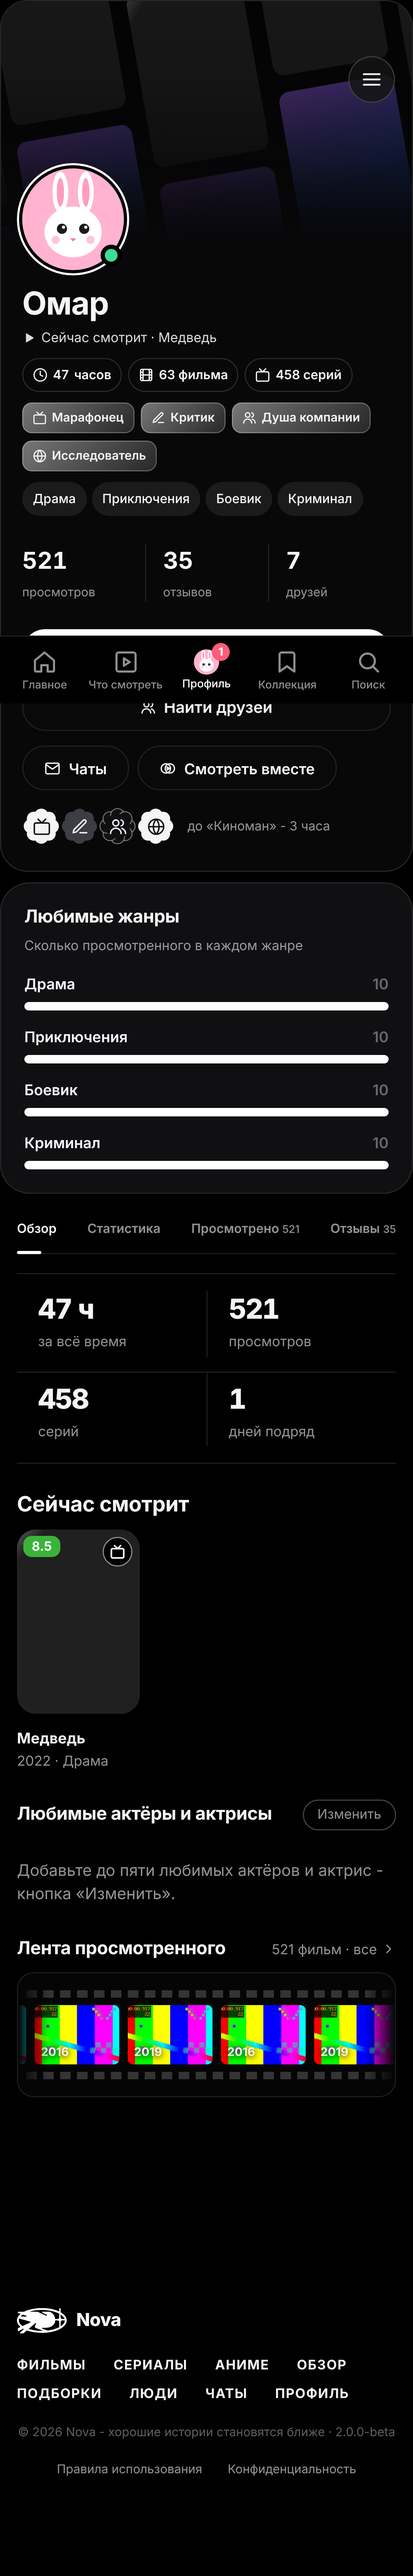
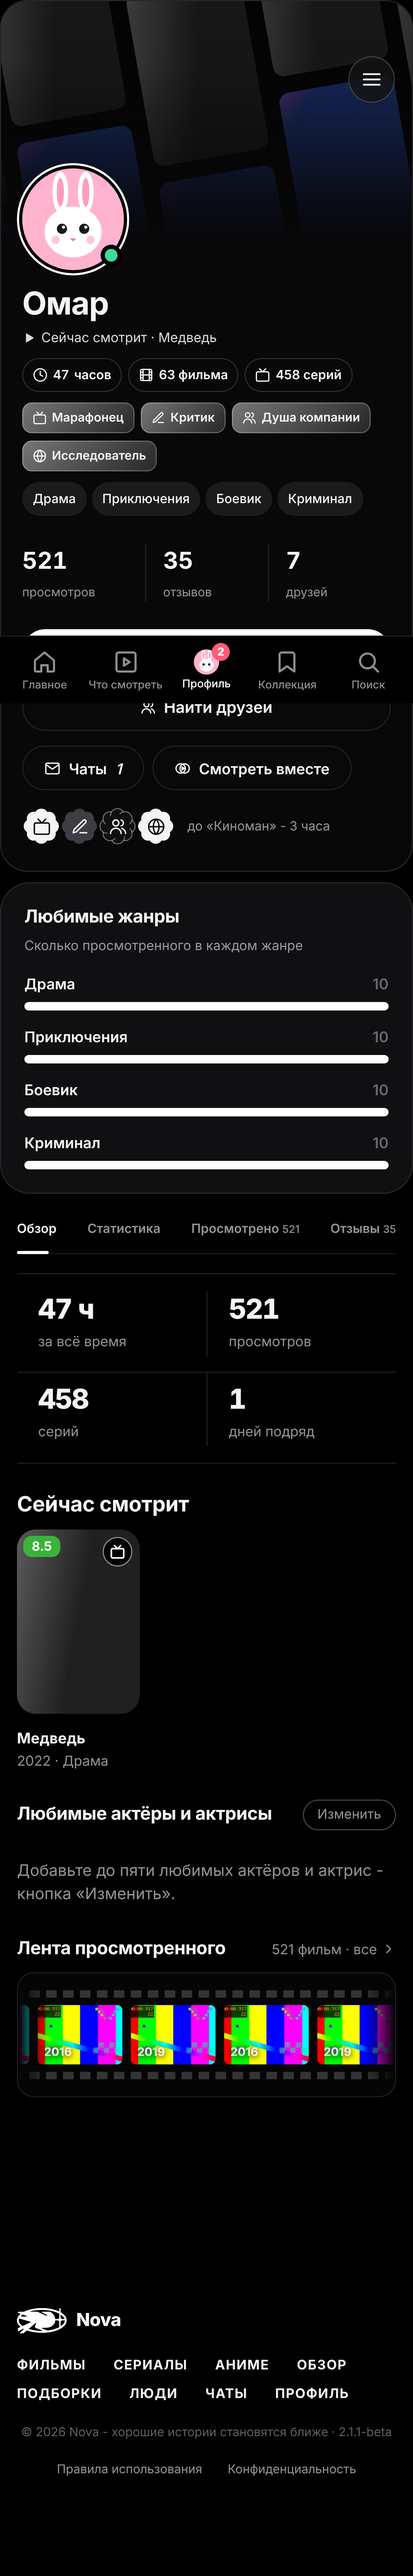
feat(web): профиль «Пульт» - левая колонка с уровнем, медалями, плитками и друзьями
Claude-Session: https://claude.ai/code/session_01PdbNxM7NLLp2d2uKGuEVkW

diff --git a/web/src/lib/profile/ProfileCard.svelte b/web/src/lib/profile/ProfileCard.svelte
@@ -1,6 +1,6 @@
 <script lang="ts">
   import { goto } from '$app/navigation';
-  import { post } from '$lib/api';
+  import { api, post } from '$lib/api';
   import { count, plural } from '$lib/fmt';
   import FriendButton from '$lib/social/FriendButton.svelte';
   import PosterWall from '$lib/social/PosterWall.svelte';
@@ -45,6 +45,38 @@
     return open ? `до «${open.label}» - ${count(Math.ceil(open.need - open.of(s)), ...open.word)}` : null;
   });
   const topTitle = $derived(names[0]?.label ?? '');
+
+  // Уровень зрителя: опыт за часы, фильмы, серии, отзывы и друзей; кольцо вокруг портрета - путь до следующего.
+  const xp = $derived(s ? s.hours * 10 + s.movies * 6 + s.episodes * 2 + s.reviews * 15 + s.friends * 10 + s.outside * 2 : 0);
+  const level = $derived(Math.floor(Math.sqrt(xp / 25)) + 1);
+  const toNext = $derived.by(() => {
+    const from = 25 * (level - 1) ** 2;
+    const to = 25 * level ** 2;
+    return Math.max(0, Math.min(1, (xp - from) / Math.max(1, to - from)));
+  });
+  const RING = 2 * Math.PI * 69;
+
+  // Бегущая строка у владельца: что сейчас делают друзья.
+  let ticker = $state<{ who: string; what: string }[]>([]);
+  $effect(() => {
+    if (!p.me) return;
+    let live = true;
+    api<{ person?: { name: string }; label: string; card?: { title: string }; ext?: { title: string } }[]>('/api/friends/activity').then(
+      (r) => live && (ticker = r.filter((a) => a.person).slice(0, 8).map((a) => ({ who: a.person!.name, what: `${a.label.toLowerCase()} «${a.card?.title ?? a.ext?.title ?? ''}»` }))),
+      () => {},
+    );
+    return () => (live = false);
+  });
+  let shared = $state(false);
+  async function share() {
+    try {
+      await navigator.clipboard.writeText(location.origin + `/people/${p.person.id}`);
+      shared = true;
+      setTimeout(() => (shared = false), 1800);
+    } catch {
+      /* без буфера обмена - ничего */
+    }
+  }
 </script>
 
 <aside class="card" aria-label="Человек">
@@ -58,10 +90,16 @@
 
     <div class="who" style:--acc={p.decor.accent ?? '#4a4a53'}>
     <div class="ring">
+      {#if s}
+        <svg class="lvl" viewBox="0 0 146 146" aria-hidden="true"><circle cx="73" cy="73" r="69" class="track" /><circle cx="73" cy="73" r="69" class="bar" style:stroke-dasharray={RING} style:stroke-dashoffset={RING * (1 - toNext)} /></svg>
+        <span class="orbit" aria-hidden="true"></span>
+      {/if}
       <Avatar avatar={p.person.avatar} photo={p.person.photo} size={108} />
       {#if now}<i class="live" title="Сейчас смотрит"></i>{/if}
     </div>
+    {#if s}<span class="lvl-chip">Уровень {level}{topTitle ? ` · ${topTitle}` : ''}</span>{/if}
     <h1>{p.person.name}</h1>
+    {#if s}<p class="lvl-note">до {level + 1} уровня - {Math.round(toNext * 100)}%</p>{/if}
     {#if now}<p class="now"><Icon name="play" size={12} /> Сейчас смотрит · {nowTitle}</p>{/if}
 
     {#if s}
@@ -102,9 +140,17 @@
 
     {#if p.me}
       <div class="social-actions" aria-label="Общение и просмотр">
-        <a class="btn" href="/chats"><Icon name="mail" size={15} /> Чаты</a>
+        <a class="btn" href="/chats"><Icon name="mail" size={15} /> Чаты{#if unseen.unread}<em class="cnt">{unseen.unread}</em>{/if}</a>
+        <a class="btn tl" href="/people"><Icon name="users" size={15} /> Друзья{#if unseen.requests}<em class="cnt">{unseen.requests}</em>{/if}</a>
+        <a class="btn tl" href="/lists"><Icon name="list" size={15} /> Подборки</a>
+        <a class="btn tl" href="/profile"><Icon name="edit" size={15} /> Оформление</a>
         <button class="btn" type="button" onclick={() => window.dispatchEvent(new Event('nova-room-link'))}><Icon name="party" size={15} /> Смотреть вместе</button>
+        <a class="btn tl" href="/profile?tab=account"><Icon name="sliders" size={15} /> Настройки</a>
       </div>
+      {#if ticker.length}
+        <div class="ticker" aria-label="Что делают друзья"><div class="run">{#each [...ticker, ...ticker] as t, k (k)}<span><b>{t.who}</b> {t.what}</span>{/each}</div></div>
+      {/if}
+      <button class="btn share" type="button" onclick={share}><Icon name={shared ? 'check' : 'link'} size={15} /> {shared ? 'Ссылка скопирована' : 'Поделиться профилем'}</button>
     {/if}
 
     {#if s && names.length}
@@ -507,4 +553,47 @@
     .now { margin-top: 6px; }
     .live { width: 26px; height: 26px; right: 8px; bottom: 8px; }
   }
+  /* Профиль W «Пульт» (21.11): на компьютере карточка - левая колонка на всю высоту: стена постеров, портрет в кольце
+     уровня с медленной орбитой, имя, значки-медали, плитки разделов, бегущая строка друзей. */
+  .lvl, .orbit, .lvl-chip, .lvl-note, .ticker, .share, .tl { display: none; }
+  @media (min-width: 1001px) {
+    .card { position: relative; top: 0; border-radius: 40px; border: 1px solid #ffffff1f; background: #0b0b0e; }
+    .cover { height: 230px; }
+    .cover::after { background: linear-gradient(180deg, #0b0b0e20, #0b0b0e); }
+    .who { display: flex; flex-direction: column; align-items: center; gap: 0; padding: 0 26px 24px; text-align: center; }
+    .ring { align-self: center; width: 146px; height: 146px; margin-top: -88px; background: none; box-shadow: none; }
+    /* Звание - в плашке уровня, цифры - справа в итогах: тут не повторяем. */
+    .bdg, .box { display: none; }
+    .ring :global(.ava) { width: 118px; height: 118px; }
+    .lvl { display: block; position: absolute; inset: 0; width: 100%; height: 100%; transform: rotate(-90deg); }
+    .lvl circle { fill: none; stroke-width: 5; }
+    .lvl .track { stroke: #ffffff1f; }
+    .lvl .bar { stroke: #fff; stroke-linecap: round; transition: stroke-dashoffset 1.4s cubic-bezier(0.2, 0.8, 0.2, 1); animation: lvl-draw 1.4s cubic-bezier(0.2, 0.8, 0.2, 1) both; }
+    .orbit { display: block; position: absolute; inset: -10px; border: 1px dashed #ffffff33; border-radius: 50%; animation: orbit 30s linear infinite; }
+    .live { right: 12px; bottom: 12px; width: 22px; height: 22px; }
+    .lvl-chip { display: inline-block; order: 0; margin-top: 14px; padding: 6px 13px; border-radius: 999px; border: 1px solid #ffffff33; background: #ffffff0d; font-size: 12px; font-weight: 700; }
+    h1 { margin: 10px 0 0; font-size: 40px; letter-spacing: -0.05em; line-height: 1; }
+    .lvl-note { display: block; margin: 6px 0 0; color: var(--muted); font-size: 13px; }
+    .now { margin-top: 8px; justify-content: center; }
+    .caps, .bdg, .genres { justify-content: center; margin-top: 12px; }
+    .box { width: 100%; margin-top: 16px; padding: 12px 6px; border: 1px solid #ffffff14; border-radius: 18px; text-align: center; }
+    .box div + div { padding-left: 0; }
+    .box b { font-size: 22px; }
+    .meds { order: 1; justify-content: space-between; width: 100%; margin-top: 16px; padding: 12px 14px; border-radius: 20px; background: #17171a; box-sizing: border-box; }
+    .m :global(.medal) { width: 40px; height: 40px; }
+    .btns { order: 2; width: 100%; margin-top: 14px; }
+    .social-actions { order: 3; display: grid; grid-template-columns: repeat(3, minmax(0, 1fr)); gap: 8px; width: 100%; margin-top: 14px; }
+    .social-actions .btn { position: relative; display: flex; flex-direction: column; align-items: flex-start; justify-content: space-between; gap: 10px; min-height: 84px; padding: 12px 14px; border-radius: 20px; border: 1px solid #ffffff12; background: #17171a; font-size: 13px; font-weight: 700; text-align: left; transition: transform 0.25s, background 0.2s; }
+    .social-actions .btn:hover { transform: translate3d(0, -3px, 0); background: #1f1f23; }
+    .tl { display: flex; }
+    .cnt { position: absolute; right: 10px; top: 10px; min-width: 20px; height: 20px; padding: 0 6px; box-sizing: border-box; border-radius: 999px; background: #fff; color: #0a0a0b; font-size: 11px; font-style: normal; font-weight: 800; line-height: 20px; text-align: center; }
+    .ticker { order: 4; display: block; width: calc(100% + 52px); margin: 14px -26px 0; padding: 10px 0; overflow: hidden; white-space: nowrap; border-block: 1px solid #ffffff12; }
+    .run { display: inline-flex; gap: 28px; animation: marquee 30s linear infinite; font-size: 13px; color: #c4c4cc; }
+    .run b { color: #fff; }
+    .share { order: 5; display: flex; justify-content: center; width: 100%; margin-top: 14px; border-radius: 999px; }
+    .bio, .locked { margin-top: 12px; }
+  }
+  @keyframes orbit { to { transform: rotate(360deg); } }
+  @keyframes marquee { to { transform: translate3d(-50%, 0, 0); } }
+  @keyframes lvl-draw { from { stroke-dashoffset: 434; } }
 </style>

diff --git a/web/e2e/profile.spec.ts b/web/e2e/profile.spec.ts
@@ -23,7 +23,9 @@ test('профиль по макету: показатели, ободок, ме
   await expect(card.getByLabel('Значки')).toContainText('Марафонец');
   await expect(card.getByLabel('Значки')).toContainText('Исследователь');
   await expect.poll(()=>card.locator('.box b').first().textContent()).toBe('521');
-  expect(await card.locator('.ring').evaluate(el=>getComputedStyle(el).boxShadow)).toContain('255, 255, 255');
+  // Компьютер: вокруг портрета кольцо уровня (профиль «Пульт»); телефон и планшет - белый ободок.
+  if((page.viewportSize()?.width??0)>1000) await expect(card.locator('.lvl')).toBeVisible();
+  else expect(await card.locator('.ring').evaluate(el=>getComputedStyle(el).boxShadow)).toContain('255, 255, 255');
   const shortcuts=card.getByLabel('Быстрые разделы').first();
   await shortcuts.click();
   await expect(card.locator('.quick a[href="/chats"]')).toBeVisible();

diff --git a/web/src/routes/people/[id]/+page.svelte b/web/src/routes/people/[id]/+page.svelte
@@ -712,4 +712,11 @@
     .tabs button[aria-selected='true'] sup { color: #52525b; }
     .ink { top: 5px; bottom: 5px; height: auto; border-radius: 999px; }
   }
+  /* Профиль W: слева пульт (треть экрана, закреплён), справа жанры и вкладки с блоками. */
+  @media (min-width: 1001px) {
+    .pf { grid-template-columns: minmax(380px, 32%) minmax(0, 1fr); }
+    .hero { grid-column: 1; grid-row: 1 / span 2; position: sticky; top: calc(var(--header) + 14px); align-self: start; max-height: calc(100vh - var(--header) - 28px); overflow-y: auto; scrollbar-width: none; border-radius: 40px; }
+    .side { grid-column: 2; grid-row: 1; position: static; }
+    .main, .main.solo { grid-column: 2; grid-row: 2; }
+  }
 </style>
